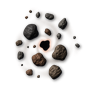
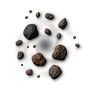
Debris disks: a soft round void in the middle, no rim
Claude-Session: https://claude.ai/code/session_011CPGRtUXnfL3wLLS3uLQ8y

Changed region(s): [[0.3778, 0.4, 0.6222, 0.6222]]

diff --git a/tools/make_asteroids.py b/tools/make_asteroids.py
@@ -265,8 +265,8 @@ def swirl_rocks(rng, spin, arms, twist):
 
 
 def debris_disk(rng, pad, spin):
-    """One debris disk hex: a small black mass at the centre, faint dust
-    streaming round it in a spiral, and loose rocks of every size swept
+    """One debris disk hex: an empty dark middle, faint dust streaming
+    round it in a spiral, and loose rocks of every size swept
     along the same spiral, each trailing a little dust."""
     size = HEX + 2 * pad
     c = size / 2
@@ -279,7 +279,8 @@ def debris_disk(rng, pad, spin):
     lanes = 0.5 + 0.5 * np.cos(arms * (th - spin * twist * np.log(np.maximum(d, 1) / 11)) - arms * 0.0)
     grain = np.asarray(Image.fromarray((value_noise(rng, size, 5, 5) * 255).astype(np.uint8))
                        .resize((W, W), Image.BICUBIC), np.float32) / 255
-    fade = np.clip((29 - d) / 9, 0, 1) * np.clip((d - 5) / 4, 0, 1)   # gone before the hex edge
+    inner = np.clip((d - 4) / 9, 0, 1)
+    fade = np.clip((29 - d) / 9, 0, 1) * inner * inner * (3 - 2 * inner)   # gone before the hex edge and in the middle
     dust = lanes ** 3 * (0.45 + 0.55 * grain) * fade * 0.42
     dust_rgb = np.dstack([np.full_like(d, 120), np.full_like(d, 104), np.full_like(d, 92)])
     canvas = Image.fromarray(np.dstack([dust_rgb, dust * 255]).clip(0, 255).astype(np.uint8), "RGBA")
@@ -299,17 +300,13 @@ def debris_disk(rng, pad, spin):
     trail_img = Image.fromarray(np.dstack([dust_rgb * 1.1, t * 255]).clip(0, 255).astype(np.uint8), "RGBA")
     canvas = canvas.resize((W, W), Image.LANCZOS) if canvas.size != (W, W) else canvas
     canvas.alpha_composite(trail_img)
-    # the black mass: a dark lumpy core with a faint warm rim where the
-    # dust falling into it glows
-    core_r = rng.uniform(4.5, 5.5)
-    wob = 1 + 0.12 * np.cos(3 * th + rng.uniform(0, 6.3)) + 0.07 * np.cos(5 * th + rng.uniform(0, 6.3))
-    rho = d / (core_r * wob)
-    glow = np.exp(-np.clip(rho - 1, 0, None) / 0.3) * (rho > 0.95) * 0.5
-    glow_rgb = np.dstack([np.full_like(d, 190), np.full_like(d, 95), np.full_like(d, 50)])
-    canvas.alpha_composite(Image.fromarray(np.dstack([glow_rgb, glow * 255]).clip(0, 255).astype(np.uint8), "RGBA"))
-    body = np.clip((1 - rho) * core_r * S / 1.5, 0, 1)
-    shade = 6 + 10 * np.clip(-(xx * LIGHT[0] + yy * LIGHT[1]) / core_r, 0, 1) * (rho > 0.6)
-    canvas.alpha_composite(Image.fromarray(np.dstack([shade, shade, shade * 1.2, body * 255]).clip(0, 255).astype(np.uint8), "RGBA"))
+    # the empty middle: a round, soft-edged void where the dust thins out
+    # into darkness, with no rim, so it fades into the rest of the disk
+    void_r = rng.uniform(4.5, 5.5) + 2.5
+    rng.uniform(0, 6.3); rng.uniform(0, 6.3)   # keeps the random stream as it was
+    void = 0.6 * np.exp(-(d / void_r) ** 2)
+    canvas.alpha_composite(Image.fromarray(np.dstack([np.full_like(d, 3), np.full_like(d, 3), np.full_like(d, 8),
+                                                      void * 255]).clip(0, 255).astype(np.uint8), "RGBA"))
     canvas = canvas.convert("RGBa").resize((size, size), Image.LANCZOS).convert("RGBA")
     canvas.alpha_composite(compose(rng, placed, pad, darken=0.9, kinds=WALL_KINDS, shadow=0.6))
     return canvas
@@ -357,7 +354,7 @@ def build(rng, out, save, combos, hex_mask):
         # the old packed walls: still drawn so the art after them stays
         # the same, but replaced by the debris disks below
         compose(rng, wall_rocks(rng), wpad, darken=0.82, kinds=WALL_KINDS, shadow=0.6, fill=True)
-    # Debris disks: loose rocks swirling round a small black mass, with
+    # Debris disks: loose rocks swirling round an empty middle, with
     # their own seed; half spin one way, half the other.
     drng = np.random.default_rng(rng.bit_generator.seed_seq.entropy + 1)
     for v in range(8):
